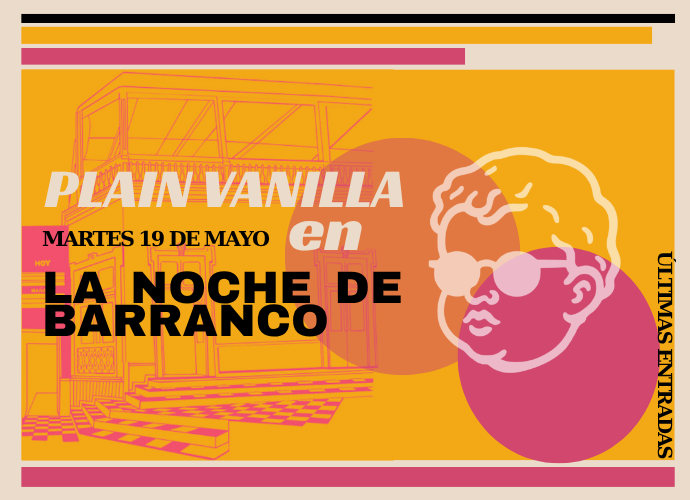
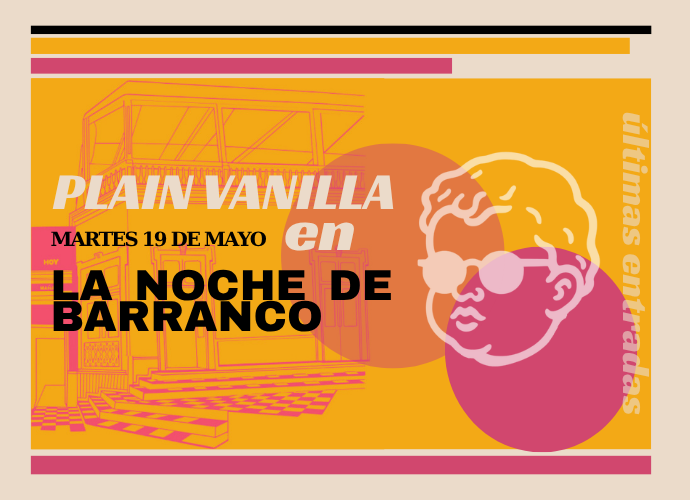
Cambios al 1405

diff --git a/index.html b/index.html
@@ -9,7 +9,7 @@
   <!-- Open Graph -->
   <meta property="og:title"       content="Plain Vanilla">
   <meta property="og:description" content="Funk, bossa nova, reggae, rock, R&B, soul, blues y rap — todo y nada, sin fórmula fija.">
-  <meta property="og:image"       content="assets/Live/live-mejia-05.webp">
+  <meta property="og:image"       content="assets/Live/live-aperol-02.webp">
   <meta property="og:type"        content="website">
   <meta property="og:locale"      content="es_PE">
 
@@ -17,7 +17,7 @@
   <meta name="twitter:card"        content="summary_large_image">
   <meta name="twitter:title"       content="Plain Vanilla">
   <meta name="twitter:description" content="Funk, bossa nova, reggae, rock, R&B, soul, blues y rap.">
-  <meta name="twitter:image"       content="assets/Live/live-mejia-05.webp">
+  <meta name="twitter:image"       content="assets/Live/live-aperol-02.webp">
 
   <!-- Fonts -->
   <link rel="preconnect" href="https://fonts.googleapis.com">